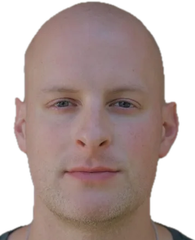
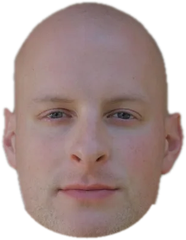
fix(logs): heads end at the jaw, the neck is a stick
Both cutouts are masked with a chin ellipse (Steve also gets a slant under
the ear) so they stop at a rounded jaw instead of a flat chop. The figure
gains a neck segment (SEAT.neck) and the photo sits on top of it. Head
widths move into the sitter data so the img never guesses.

Claude-Session: https://claude.ai/code/session_01SxQq3fhB7amT4NeEUMVNk9

diff --git a/src/lib/page-fx.ts b/src/lib/page-fx.ts
@@ -161,7 +161,7 @@ export const LOGS = [
  * sits on the shoulder. The component places heads with these; the canvas
  * draws the bodies with them.
  */
-export const SEAT = { torso: 0.058, lean: 0.014 } as const;
+export const SEAT = { torso: 0.058, lean: 0.014, neck: 0.012 } as const;
 
 /**
  * The ember run the stones are outlined in: three stops across a band
@@ -2162,9 +2162,10 @@ export function initPageFx(): void {
       ctx2.lineWidth = Math.max(1.5 * dpr, 0.0036 * rh);
       ctx2.shadowBlur = 0;
       ctx2.beginPath();
-      // torso
+      // torso, then a stick neck that tucks up under the chin of the photo
       ctx2.moveTo(hx, hy);
       ctx2.lineTo(sx, sy);
+      ctx2.lineTo(sx, sy - (SEAT.neck + 0.006) * u);
       // legs, knees up the way a low log makes you sit: thigh forward and a
       // little above the hip, shin down to the ground just under the log.
       // the second leg is offset back a touch for depth.

diff --git a/src/lib/sitters.ts b/src/lib/sitters.ts
@@ -5,6 +5,8 @@ export interface Sitter {
   name: string;
   full: string;
   head: string;
+  /** intrinsic px of `head` (240 tall), so the layout never guesses */
+  w: number;
   log: number;
   role: 'host' | 'guest';
   /** the guest's episode slug; hosts get the latest dive instead */
@@ -17,6 +19,7 @@ export const SITTERS: Sitter[] = [
     name: 'sam',
     full: "Salvatore D'Angelo",
     head: '/sitters/sam.png',
+    w: 186,
     log: 0,
     role: 'host',
     url: 'https://threesam.com',
@@ -26,6 +29,7 @@ export const SITTERS: Sitter[] = [
     name: 'steve',
     full: 'Steve Tullius',
     head: '/sitters/steve.png',
+    w: 144,
     log: 1,
     role: 'host',
   },

diff --git a/src/lib/components/Sitters.svelte b/src/lib/components/Sitters.svelte
@@ -20,7 +20,7 @@
     return {
       ...s,
       dx: log.dx + face * SEAT.lean,
-      y: log.cy - log.ry - SEAT.torso,
+      y: log.cy - log.ry - SEAT.torso - SEAT.neck,
     };
   });
 
@@ -50,7 +50,7 @@
         style="--x:{FLAME_X};--dx:{s.dx};--y:{s.y}"
         onclick={() => open(s)}
       >
-        <img src={s.head} alt="" width="202" height="240" />
+        <img src={s.head} alt="" width={s.w} height="240" />
       </button>
     </li>
   {/each}

diff --git a/src/app.css b/src/app.css
@@ -761,7 +761,7 @@ html.dive-go #veil::before {
     left: calc(var(--x) * 100% + var(--dx) * 100vh);
     top: calc(var(--y) * 100%);
     /* bottom-centre on the shoulder: the chin sits where the neck would */
-    transform: translate(-50%, -96%);
+    transform: translate(-50%, -100%);
     background: none;
     border: 0;
     padding: 0;
